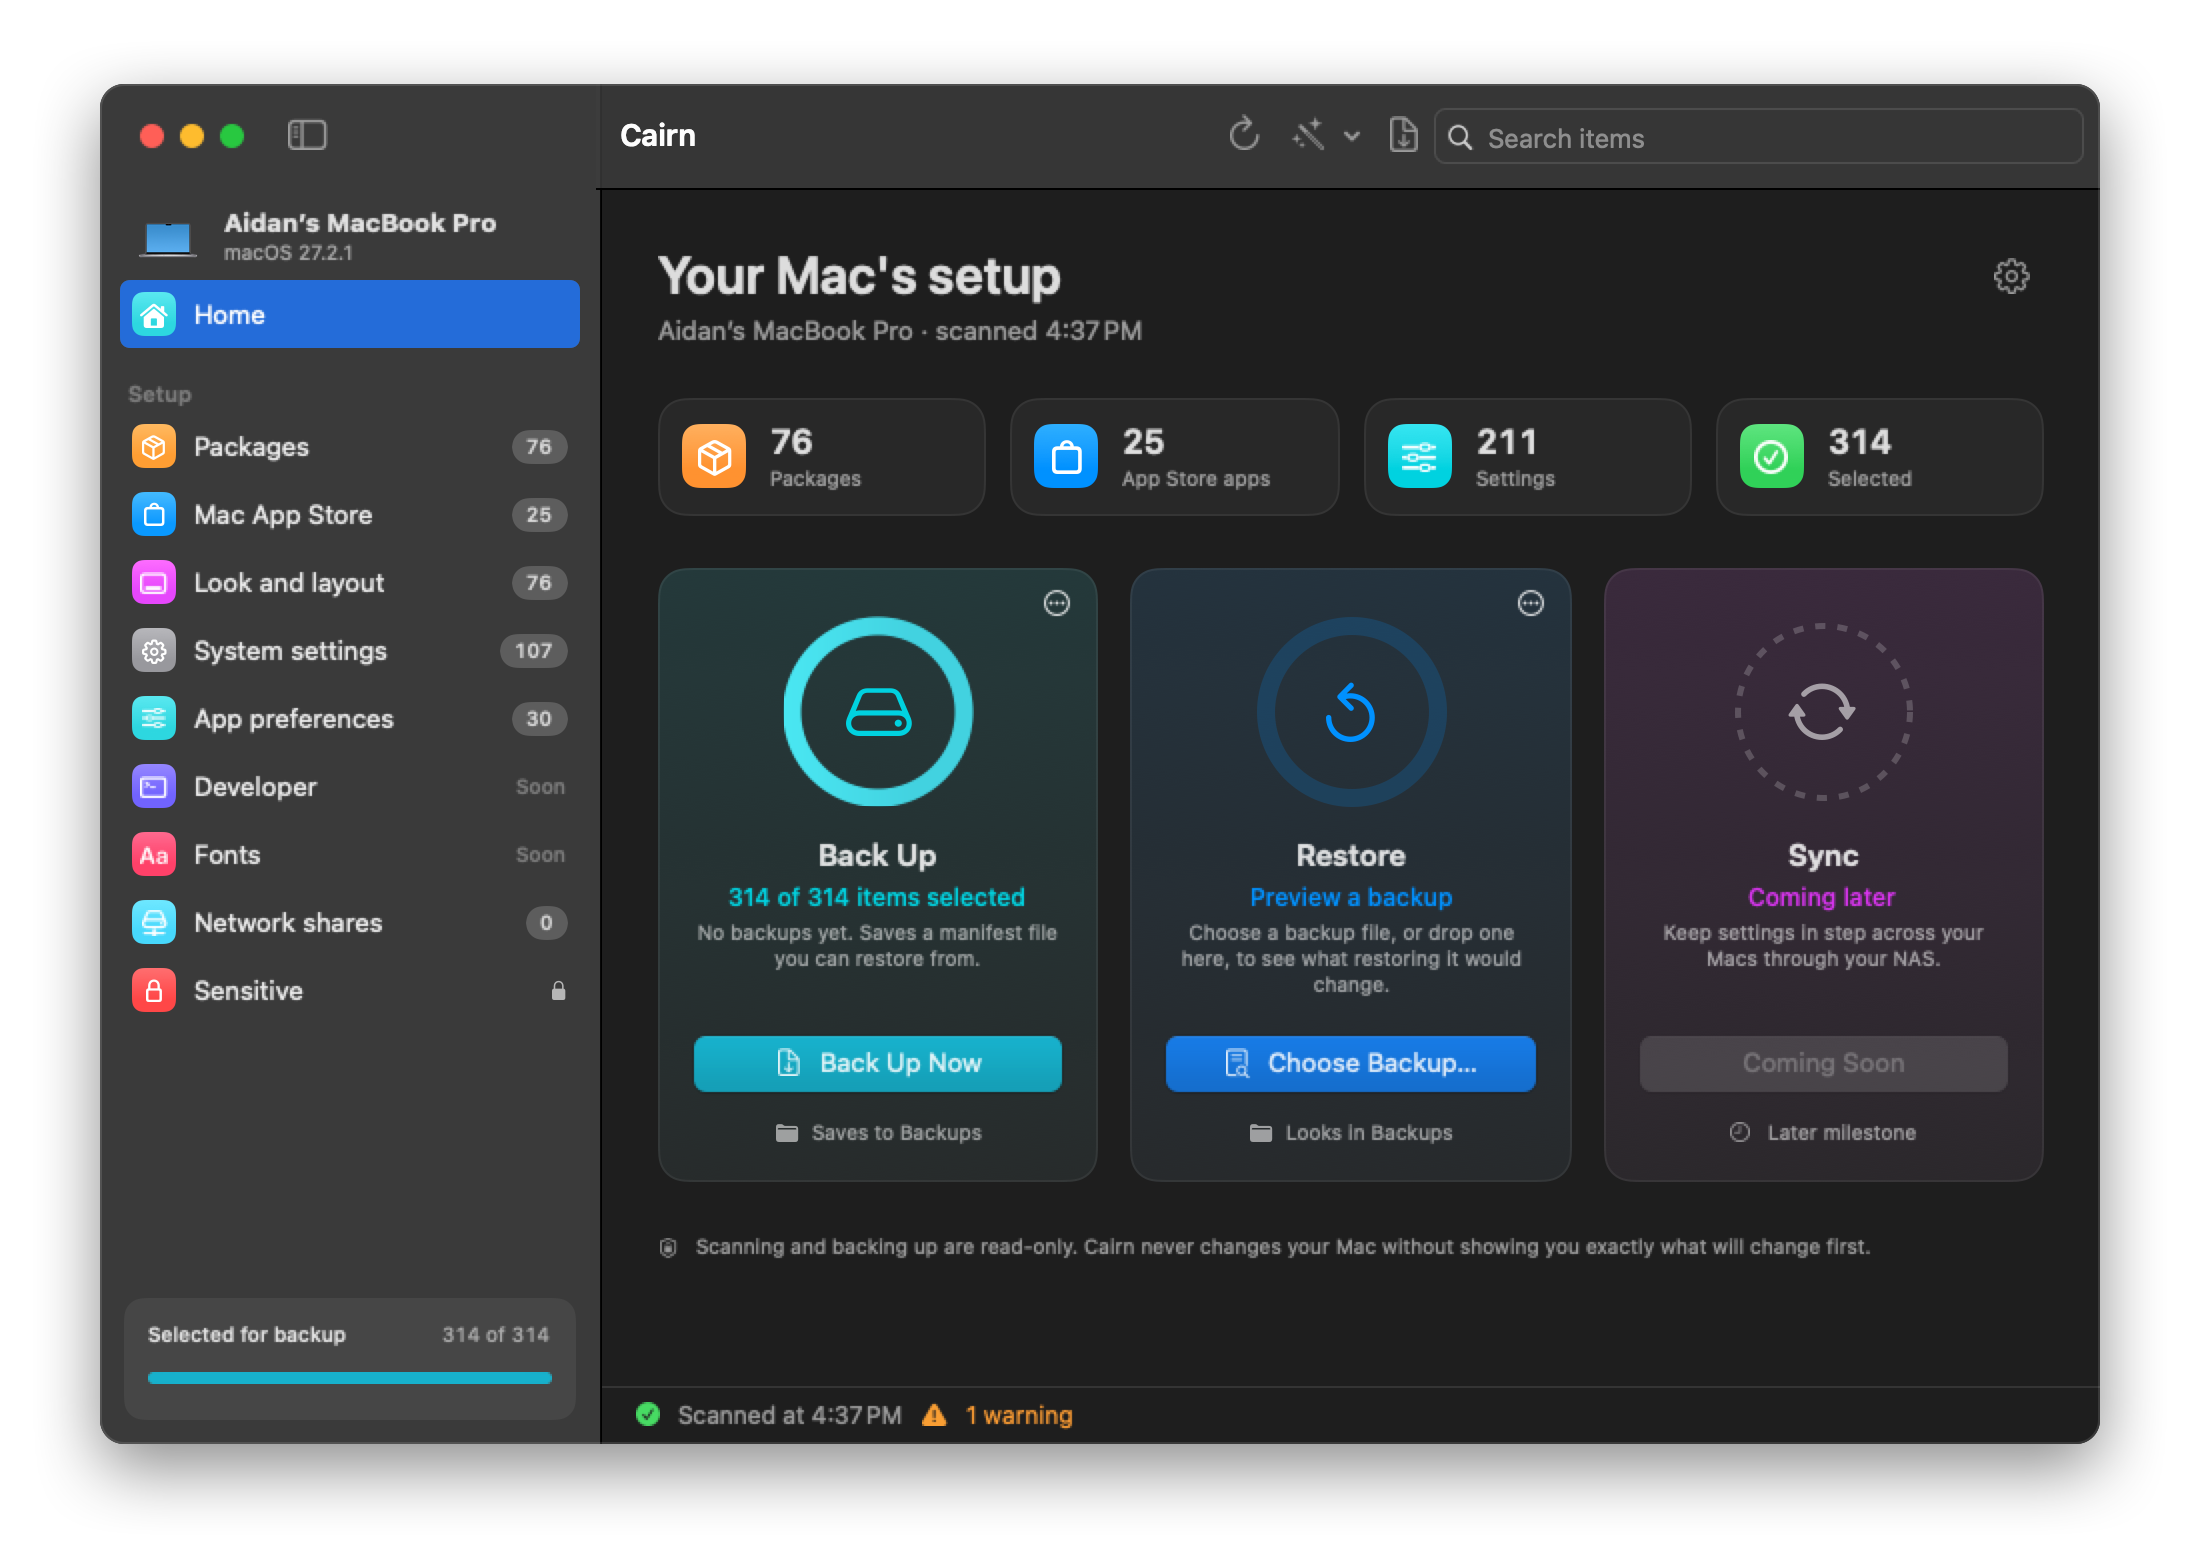
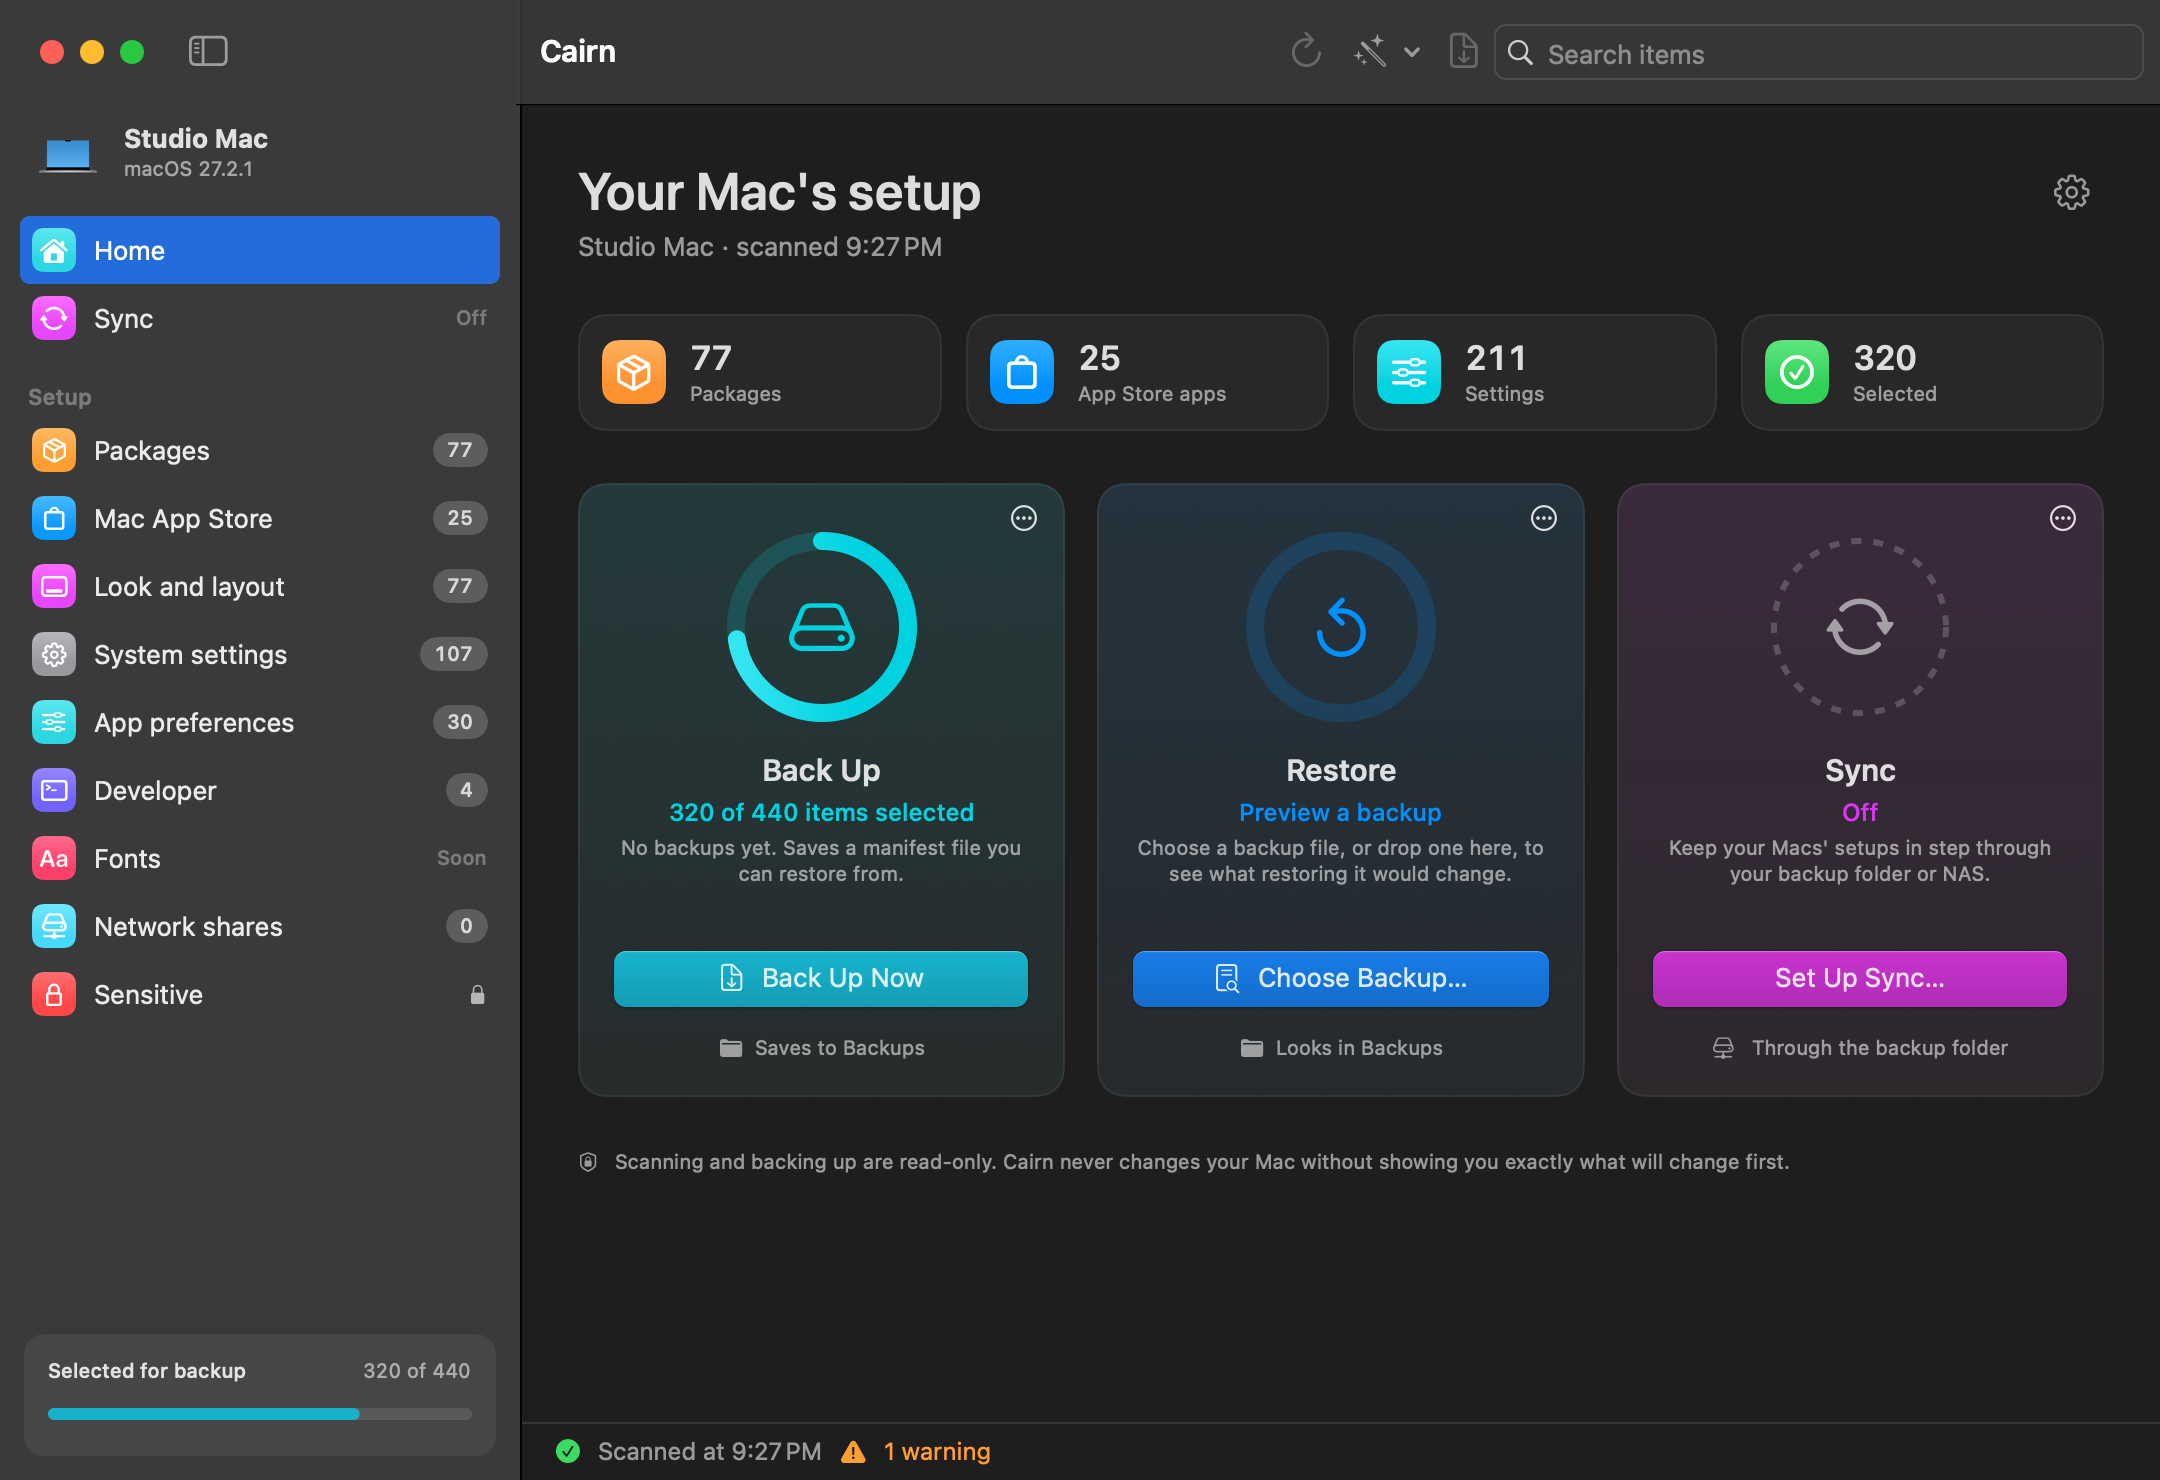
Retake README screenshot with a made-up Mac name; neutral example names
CAIRN_SNAPSHOT_DEVICE_NAME shows a given name for this Mac in debug
snapshots, and snapshots bring the window forward so it renders active.

diff --git a/Sources/CairnApp/DebugSnapshot.swift b/Sources/CairnApp/DebugSnapshot.swift
@@ -14,6 +14,7 @@ import CairnCore
 /// `CAIRN_SNAPSHOT_RESTORE=<unlock|wrong|unlocked|skip|running|finished>` shows that
 /// restore sheet state with made-up data (use with `CAIRN_SNAPSHOT_PREVIEW`).
 /// `CAIRN_SNAPSHOT_SYNC=<request|pairing|paired|add|folder|offline>` shows a pairing sheet with made-up data.
+/// `CAIRN_SNAPSHOT_DEVICE_NAME=<name>` shows that name for this Mac (for README screenshots).
 /// `CAIRN_SNAPSHOT_SCALE=2` renders at 2x even on a non-Retina display.
 enum DebugSnapshot {
     @MainActor
@@ -58,6 +59,12 @@ enum DebugSnapshot {
         }
         if let state = env["CAIRN_SNAPSHOT_RESTORE"] {
             DispatchQueue.main.asyncAfter(deadline: .now() + delay * 0.75) { AppModel.current?.restore.debugShow(state) }
+        }
+        // Bring the window forward first, so it renders active (colored buttons)
+        // even if another app took focus during the scan.
+        DispatchQueue.main.asyncAfter(deadline: .now() + delay * 0.9) {
+            NSApp.activate(ignoringOtherApps: true)
+            NSApp.windows.first(where: { $0.isVisible && $0.frame.height > 100 })?.makeKeyAndOrderFront(nil)
         }
         DispatchQueue.main.asyncAfter(deadline: .now() + delay) {
             let main = NSApp.windows.first(where: { $0.isVisible && $0.contentView != nil && $0.frame.height > 100 })

diff --git a/Sources/CairnApp/ContentView.swift b/Sources/CairnApp/ContentView.swift
@@ -235,8 +235,14 @@ struct ActivityRing: View {
 
 /// Facts about this Mac for display (UI only; the manifest keeps its own device record).
 enum DeviceInfo {
-    /// The name from System Settings > General > Sharing, e.g. "Aidan's MacBook Pro".
-    static let friendlyName = Host.current().localizedName ?? "This Mac"
+    /// The name from System Settings > General > Sharing, e.g. "Sam's MacBook Pro".
+    static let friendlyName: String = {
+        #if DEBUG
+        // Screenshots for the README use a made-up name, not the real Mac's.
+        if let name = ProcessInfo.processInfo.environment["CAIRN_SNAPSHOT_DEVICE_NAME"] { return name }
+        #endif
+        return Host.current().localizedName ?? "This Mac"
+    }()
 
     /// The system's own picture of this Mac model.
     static let icon: NSImage = NSImage(named: NSImage.computerName) ?? NSWorkspace.shared.icon(forFile: "/System/Library/CoreServices/Finder.app")

diff --git a/Tests/CairnCoreTests/BackupFolderTests.swift b/Tests/CairnCoreTests/BackupFolderTests.swift
@@ -33,8 +33,8 @@ import Testing
     }
 
     @Test func fileNamesAreSafeAndSortable() {
-        let name = BackupFolder.fileName(device: "aidan's mbp", date: Date(timeIntervalSince1970: 0))
-        #expect(name.hasPrefix("cairn-aidan-s-mbp-19"))
+        let name = BackupFolder.fileName(device: "sam's mbp", date: Date(timeIntervalSince1970: 0))
+        #expect(name.hasPrefix("cairn-sam-s-mbp-19"))
         #expect(name.hasSuffix(".yaml"))
         #expect(!name.contains(" ") && !name.contains("'"))
     }

diff --git a/Sources/CairnCore/Storage/SnapshotStore.swift b/Sources/CairnCore/Storage/SnapshotStore.swift
@@ -64,7 +64,7 @@ public struct SnapshotStore: Sendable {
 
     public var snapshotsURL: URL { root.appendingPathComponent("snapshots", isDirectory: true) }
 
-    /// `Aidan's MBP` → `Aidan-s-MBP`: safe as a folder name on any share.
+    /// `Sam's MBP` → `Sam-s-MBP`: safe as a folder name on any share.
     public static func folderName(device: String) -> String {
         String(device.map { $0.isLetter || $0.isNumber || $0 == "-" || $0 == "." ? $0 : "-" })
     }

diff --git a/CLAUDE.md b/CLAUDE.md
@@ -23,7 +23,7 @@ YAML, versioned (`schema: 1`). Describes intent, not OS artifacts.
 
 ```yaml
 schema: 1
-device: { name: "aidans-mbp", os: macos, os_version: "14.5" }
+device: { name: "studio-mac", os: macos, os_version: "14.5" }
 created: 2026-11-21T10:00:00Z
 packages:
   - id: vlc                    # canonical id
